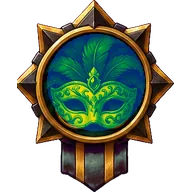
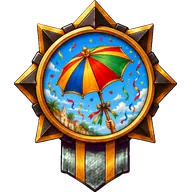
2.230.0: графика португальского курса
26 рисованных портретов, медальоны меню eye-pt и рисованные медали праздников.

Claude-Session: https://claude.ai/code/session_012FoTdB5qAwJN693kz9isgV

diff --git a/src/content/changelog.ts b/src/content/changelog.ts
@@ -7,6 +7,11 @@ export interface Release {
 // Новые версии сверху. Версия первой записи должна совпадать с package.json (проверяется тестом).
 export const CHANGELOG: Release[] = [
   {
+    version: '2.230.0',
+    date: '2026-10-22',
+    notes: ['Бразильский португальский (пока закрыт): своя графика. У жителей, Летописца, стражей и кузнеца Мастера Бене — рисованные портреты. В меню — свой медальон: зелёный глаз с жёлтым ромбом и синим кругом, после Эликсира — в золотом кольце. Медали Праздника июня и Карнавала теперь нарисованы: костёр под гирляндой флажков и зонтик фрево в конфетти.'],
+  },
+  {
     version: '2.229.0',
     date: '2026-10-21',
     notes: ['Бразильский португальский (пока закрыт): два праздника. Праздник июня (Festa Junina) в парке у Сеу Валдира: костёр, флажки, памонья и кентан, а в кадрили на «Olha a chuva!» все хором отвечают «É mentira!». И бразильский Карнавал на пляже у Бруну: костюмы, уличный блок и фрево с зонтиком. За миссию в неделю праздника — тайная медаль.'],

diff --git a/src/components/NavBar.tsx b/src/components/NavBar.tsx
@@ -10,6 +10,8 @@ import eyeEn from '../assets/nav/eye-en.webp';
 import eyeEnGold from '../assets/nav/eye-en-gold.webp';
 import eyeTr from '../assets/nav/eye-tr.webp';
 import eyeTrGold from '../assets/nav/eye-tr-gold.webp';
+import eyePt from '../assets/nav/eye-pt.webp';
+import eyePtGold from '../assets/nav/eye-pt-gold.webp';
 import { LANG, LANGS, RELEASED_LANGS, switchLang, type Lang } from '../lang';
 import { useSphinx } from '../store/sphinx';
 
@@ -31,6 +33,7 @@ const EYES: Partial<Record<Lang, { plain: string; gold: string }>> = {
   it: { plain: eyeIt, gold: eyeItGold },
   en: { plain: eyeEn, gold: eyeEnGold },
   tr: { plain: eyeTr, gold: eyeTrGold },
+  pt: { plain: eyePt, gold: eyePtGold },
 };
 /** Медальон языка; после Эликсира — золотой (задача 8.3). Курс без своего медальона берёт испанский. */
 const eyeFor = (lang: Lang, gold: boolean) => (EYES[lang] ?? EYES.es!)[gold ? 'gold' : 'plain'];

diff --git a/tests/e2e/story-pt.spec.ts b/tests/e2e/story-pt.spec.ts
@@ -354,3 +354,11 @@ for (const [id, day] of [
     await expect(page.getByTestId('festival-medal')).toContainText('получена');
   });
 }
+
+test('pt: свой медальон в меню и рисованные портреты жителей', async ({ page }) => {
+  await openCourse(page, 'pt');
+  await page.goto('./#/grammar');
+  await expect(page.getByTestId('nav-eye')).toHaveAttribute('src', /eye-pt(?!-gold)/);
+  await page.goto(`./#/scene/${encodeURIComponent('sc:cafe.1')}`);
+  await expect(page.getByTestId('npc-art').first()).toHaveAttribute('src', /tonho/);
+});

diff --git a/scripts/build-medal-art.py b/scripts/build-medal-art.py
@@ -1,6 +1,6 @@
 """Медали (промты — `docs/design/medals-prompt.md`): оправы ступеней `docs/design/medal-frames.png`, эмблемы линий
 `docs/design/medal-emblems.png` и тайные медали `docs/design/medal-secrets.png`, праздники английского курса —
-`docs/design/medal-secrets-en.png`, турецкого — `docs/design/medal-secrets-tr.png`.
+`docs/design/medal-secrets-en.png`, турецкого — `docs/design/medal-secrets-tr.png`, португальского — `docs/design/medal-secrets-pt.png`.
 
 Листы нарисованы на пурпурном фоне (#FF00FF) сеткой: каждая медаль в своей ячейке (искры у книги и молнии — отдельные
 пятна, поэтому делим по ячейкам, а не по связным областям). Скрипт снимает фон и сохраняет в `src/assets/medals/`
@@ -28,6 +28,7 @@ SECRETS = ['saved-streak', 'flawless', 'midnight', 'labyrinth', 'sphinx', 'keepe
            'festival-sanfermin', 'festival-tomatina', 'festival-ferragosto', 'festival-carnevale']
 SECRETS_EN = ['festival-bonfire', 'festival-carnival']
 SECRETS_TR = ['festival-hidrellez', 'festival-nisan']
+SECRETS_PT = ['festival-junina', 'festival-carnaval']
 
 
 def keyed(path: Path):
@@ -104,6 +105,9 @@ def main():
         square(piece, by_height=True)[0].save(OUT / f'secret-{sid}.webp', 'WEBP', quality=80, method=6)
     # Праздники турецкого курса (2.207.0).
     for sid, piece in zip(SECRETS_TR, cells(DESIGN / 'medal-secrets-tr.png', 2, 1)):
+        square(piece, by_height=True)[0].save(OUT / f'secret-{sid}.webp', 'WEBP', quality=80, method=6)
+    # Праздники португальского курса (2.230.0).
+    for sid, piece in zip(SECRETS_PT, cells(DESIGN / 'medal-secrets-pt.png', 2, 1)):
         square(piece, by_height=True)[0].save(OUT / f'secret-{sid}.webp', 'WEBP', quality=80, method=6)
     print(json.dumps(frames))
 

diff --git a/scripts/cut-portraits.py b/scripts/cut-portraits.py
@@ -1,8 +1,8 @@
 """
 Портреты персонажей из листов docs/design/portraits-<язык>.jpg: 20 жителей мест, Летописец, четыре стража
-и кузнец. Испанский лист — версия 2.62.0, итальянский — 2.82.0, английский — 2.186.0, турецкий — 2.207.0. Вырезается внутренняя часть каждой рамки,
+и кузнец. Испанский лист — версия 2.62.0, итальянский — 2.82.0, английский — 2.186.0, турецкий — 2.207.0, португальский — 2.230.0. Вырезается внутренняя часть каждой рамки,
 без золотой обводки и таблички с именем, в пропорциях игрового портрета 14:18, размер 168×216.
-Запуск: python3 scripts/cut-portraits.py [es|it|en|tr] (без аргумента — все языки, нужен Pillow).
+Запуск: python3 scripts/cut-portraits.py [es|it|en|tr|pt] (без аргумента — все языки, нужен Pillow).
 """
 from PIL import Image
 import os, sys
@@ -44,9 +44,17 @@ SHEETS={
     small_x=[(97,228),(252,367),(400,505),(533,643),(667,778),(808,930)],
     small_y=(1290,1432),
   ),
+  'pt':dict(
+    cols=[(122,283),(335,494),(540,700),(745,905)],
+    rows=[(68,238),(310,480),(555,725),(795,968),(1040,1205)],
+    names=[['tonho','graca','wellington','dita'],['lourdes','valdir','juliana','rosa'],['marcia','edson','ricardo','zecarlos'],
+           ['tati','raimundo','bruno','patricia'],['helena','fernanda','thiago','moreira']],
+    small_x=[(98,204),(245,349),(388,490),(533,637),(676,779),(818,927)],
+    small_y=(1290,1425),
+  ),
 }
 # Сдвиг центра по x для отдельных портретов, если лицо не по центру рамки.
-SHIFT={'es':{},'it':{},'en':{},'tr':{}}
+SHIFT={'es':{},'it':{},'en':{},'tr':{},'pt':{}}
 
 def cut(lang):
     s=SHEETS[lang]

diff --git a/scripts/build-nav-art.py b/scripts/build-nav-art.py
@@ -119,3 +119,5 @@ if __name__ == '__main__':
     eyes('nav-wow-eyes-en.png', ['eye-en', 'eye-en-gold'])
     # Турецкий (2.207.0) — тоже свой лист.
     eyes('nav-wow-eyes-tr.png', ['eye-tr', 'eye-tr-gold'])
+    # Португальский (2.230.0) — тоже свой лист.
+    eyes('nav-wow-eyes-pt.png', ['eye-pt', 'eye-pt-gold'])

diff --git a/CLAUDE.md b/CLAUDE.md
@@ -72,7 +72,7 @@ React 19, Vite 8 (rolldown), TypeScript, Tailwind v4, Zustand, Dexie (IndexedDB)
 - Звонница — минимальные пары (задача 10.2): `src/content/<язык>/pairs.json` (звонарь `ringer` того же вида, что кузнец, и противопоставления `contrasts`: `kind` `swap` с полем `swap`, `stress`, `double` или `caps` — английское ударение без знаков: ударный слог заглавными, REcord / reCORD, у обоих слов `say` с окружением «a record» / «to record»; турецкий циркумфлекс hala / hâlâ — вид `stress`; виды языка — `pairKinds` в профиле; пары `[слово, слово]`), загрузка `src/content/pairs.ts`, логика `src/domain/minimalPairs.ts` (`pairTasks`, `pairVerdict`, `retryTask`, `pairIssue`), валидатор `validatePairs` (пара различается ровно тем, что заявлено, не меньше `PAIRS_MIN` пар; общая проверка мастера без места — `checkMaster`). Экран `/bells` (`src/screens/Bells.tsx`), вход — карточка на экране грамматики под кузницей. Без звука (`listeningEnabled`) звонить нельзя. Ответы в журнале — режим `pairs`, id `mp:<противопоставление>.<n>` (`isPairId`, не слово); верные идут в `recordListening` (линия «Слушатель»). Сквозной тест — `bells.spec.ts`.
 - Ответ голосом (задача 10.3): `src/audio/speechInput.ts` (`voiceInputSupported`: есть `SpeechRecognition`, сеть и не APK; `listenAnswer` — до пяти вариантов на языке `recognitionLang`; запрет микрофона прячет кнопку до перезапуска), выбор варианта — `bestAlternative` в `src/domain/voiceAnswer.ts` по проверке задания, кнопка `VoiceAnswer` (`src/components/VoiceAnswer.tsx`, следит за `online`/`offline`). Стоит у ввода в миссии (`HeroTurn`, проверка `answerNode`) и в испытаниях (`TypeAnswer` и `PhraseType` с `exam`). Услышанное только встаёт в поле, проверку запускает игрок. Сквозной тест — `voice.spec.ts` (заглушка `SpeechRecognition`, `setOffline`).
 - Напоминания (задача 10.4): настройки `reminderOn`, `reminderTime`; расписание и текст — `src/domain/reminder.ts` (`reminderSlots`: `REMINDER_DAYS` дней вперёд, сегодня только если цель дня не выполнена; `reminderText` от Летописца), на устройстве — `src/lib/reminder.ts` (`reminderSupport`: `native` | `periodic` | `none`; `enableReminder`, `reminderStatus`, `syncReminder`, `watchReminder` из `bootstrap` пересчитывает расписание при выполненной цели и смене настроек). APK — плагин `@capacitor/local-notifications` (номера уведомлений по языку, значок `ic_stat_eslacity` из `scripts/build-icons.py`, `capacitor.config.ts`). Сайт — `public/reminder-sw.js`, подключён к service worker через workbox `importScripts`: по `periodicsync` читает расписание из кэша `eslacity-reminder` (запись на язык) и показывает наступившее, опоздавшее больше чем на 12 часов пропускает. Раздел «Напоминание» в настройках — `ReminderCard`. Тесты: `src/lib/reminderSw.test.ts` (service worker в песочнице), сквозной `reminder.spec.ts`.
-- Праздники (задача 10.5): `src/domain/festival.ts` (`FESTIVALS` собирается из `festivals` профилей языков: хозяин — здание города, цвета флажков, знак, тайная медаль, неделя `week(year)`; `festivalWeek`: Сан-Фермин 6–14 июля, Томатина вокруг последней среды августа, Феррагосто 12–18 августа, Карнавал — шесть дней до Жирного вторника по Пасхе; английские — Ночь костров 2–8 ноября и карнавал в Ноттинг-Хилле с четверга до среды вокруг последнего понедельника августа; турецкие — Хыдырэллез 2–8 мая и Детский праздник 20–26 апреля; португальские — Праздник июня (Festa Junina) 20–26 июня и бразильский Карнавал, как итальянский, по Пасхе; `activeFestival`, `festivalsDone` — миссия, пройденная в неделю праздника; `placePath`). Контент — `src/content/<язык>/festivals/<id>.json` (`intro`, `about`, `names` — имена собственные для проверки словаря, слова `fest-<id>.<slug>` уровня 1, фразы `ph:fest-<id>.<slug>`, миссия `ms:fest-<id>.2` сложности главы II, `FESTIVAL_CHAPTER`). Праздник — «место» `fest-<id>`: его слова, фразы и миссию находят обычные загрузчики (`content/index.ts`, `phrases.ts`, `missions.ts`), хозяин — `npcFor`. Экран `/festival/:id` (`src/screens/Festival.tsx`), приглашение на главной, флажки и знак на карте, календарь в профиле — `src/components/FestivalBits.tsx`. Тайные медали праздников — в `SECRETS` с полем `lang` (видны только в своём курсе), счётчик `festivals` в `MedalCounters`; картинки английских и турецких режет `scripts/build-medal-art.py` из своих листов `docs/design/medal-secrets-en.png` и `medal-secrets-tr.png`, португальские пока собирает из готовых медалей `scripts/build-pt-festival-medals.py`. Валидатор `validateFestivals` (общие проверки фраз и миссий с `places`, свой словарь покрытия с праздничными словами). Сквозной тест — `festival.spec.ts` (`page.clock`).
+- Праздники (задача 10.5): `src/domain/festival.ts` (`FESTIVALS` собирается из `festivals` профилей языков: хозяин — здание города, цвета флажков, знак, тайная медаль, неделя `week(year)`; `festivalWeek`: Сан-Фермин 6–14 июля, Томатина вокруг последней среды августа, Феррагосто 12–18 августа, Карнавал — шесть дней до Жирного вторника по Пасхе; английские — Ночь костров 2–8 ноября и карнавал в Ноттинг-Хилле с четверга до среды вокруг последнего понедельника августа; турецкие — Хыдырэллез 2–8 мая и Детский праздник 20–26 апреля; португальские — Праздник июня (Festa Junina) 20–26 июня и бразильский Карнавал, как итальянский, по Пасхе; `activeFestival`, `festivalsDone` — миссия, пройденная в неделю праздника; `placePath`). Контент — `src/content/<язык>/festivals/<id>.json` (`intro`, `about`, `names` — имена собственные для проверки словаря, слова `fest-<id>.<slug>` уровня 1, фразы `ph:fest-<id>.<slug>`, миссия `ms:fest-<id>.2` сложности главы II, `FESTIVAL_CHAPTER`). Праздник — «место» `fest-<id>`: его слова, фразы и миссию находят обычные загрузчики (`content/index.ts`, `phrases.ts`, `missions.ts`), хозяин — `npcFor`. Экран `/festival/:id` (`src/screens/Festival.tsx`), приглашение на главной, флажки и знак на карте, календарь в профиле — `src/components/FestivalBits.tsx`. Тайные медали праздников — в `SECRETS` с полем `lang` (видны только в своём курсе), счётчик `festivals` в `MedalCounters`; картинки английских, турецких и португальских режет `scripts/build-medal-art.py` из своих листов `docs/design/medal-secrets-en.png`, `medal-secrets-tr.png` и `medal-secrets-pt.png`. Валидатор `validateFestivals` (общие проверки фраз и миссий с `places`, свой словарь покрытия с праздничными словами). Сквозной тест — `festival.spec.ts` (`page.clock`).
 - Отчёты об ошибках (задача 11.1): таблица `reports` (`ReportRecord`, причины `REPORT_REASONS`, текст для копирования `formatReports` в `src/domain/report.ts`; запись и чтение — `src/db/reports.ts`). Кнопка `ReportButton` (окно в портале на `document.body`: лист итога ответа сдвигается `transform`-ом) стоит в `FeedbackSheet`, если у итога есть `itemId` (его ставят `LessonPlayer`, `PhraseRun`, `RuleReview`, `GrammarLesson`, `TrialPlayer`, кузница, Звонница), в разговоре (`<сцена>#<номер реплики>`) и в миссии (`<миссия>#<узел>`). Новое задание с итогом — сразу с `itemId`. Отчёты в резервной копии (`OPTIONAL`), раздел в настройках — `ReportsCard`. Сквозной тест — `report.spec.ts`.
 - Правила перевода (задача 15.3): `docs/TRANSLATION.md`. `translationIssues` в `src/domain/translation.ts` (из `scripts/validate-content.ts`, по всем файлам контента) сверяет «ты/вы» перевода с оригиналом у каждой пары `es`/`ru` и `fem` (`sourceAddress`, `ruAddress`; решает оригинал, а не `register` жителя) и типографику русских строк (`typographyIssues`: «ёлочки», `NO_YO`). Новый перевод пишется по этим правилам.
 - Вычитка носителем (задача 11.2): `scripts/export-review.ts` выгружает строки на изучаемом языке в `review/<язык>/<вид>.csv` (в git не попадает). Строка выгрузки — `extractRows` в `scripts/review-lib.ts`: поля по `TARGET_KEYS` (у мудрости Сфинкса ещё `title`), русские и служебные ветки — `SKIP_KEYS`, строка с кириллицей без латиницы не выгружается; адрес — `file` и `path` (`getAt`/`setAt`), тест проверяет, что адрес каждой строки ведёт к её тексту. Новые поля контента на изучаемом языке добавлять в `TARGET_KEYS`. Загрузка правок (задача 11.3) — `scripts/import-review.ts`: `fixesFromCsv`, `applyFixes` (правка — только если текст в контенте тот же, что видел носитель), замена точечная по месту строки в тексте файла (`locateStrings`), файлы целиком не переписываются; потом отчёт `review/<язык>/applied-*.md`, валидатор и тесты контента. Инструкция носителю — `docs/REVIEW.md`.
@@ -81,7 +81,7 @@ React 19, Vite 8 (rolldown), TypeScript, Tailwind v4, Zustand, Dexie (IndexedDB)
 - Загрузка и переходы (задача 14.6): пока экран ждёт контент, он возвращает `<Loading />` из `src/components/ui.tsx` (внутри экрана — `inline`), а не `null`; появляется через 250 мс. `Screen` проявляется классом `screen-in` (только прозрачность: `transform` сломал бы `position: fixed` у листа итога), при `prefers-reduced-motion` без анимации. Главная предзагружает место «Продолжить» (`stepPlace` в `next.ts`) и следующий урок грамматики. Сквозной тест — `loading.spec.ts`.
 - Настройки по разделам (задача 14.4): `/settings` — оглавление, `/settings/<раздел>` — экран раздела (`SettingsScreen` в `src/screens/Settings.tsx`). Разделы и порядок — `SETTINGS_SECTIONS` в `src/domain/settingsSections.ts` (`hero`, `learning`, `sound`, `reminder`, `language`, `data`, `app`, `reports`), подпись выбранного под названием — `settingsHint`. Новая настройка встаёт в подходящий раздел (`SECTION_BODY`); сквозные тесты идут прямо в раздел (`goto('./#/settings/<раздел>')`), оглавление проверяет `settings.spec.ts`.
 - Приложение для Android (APK, с 2.113.0): Capacitor (`capacitor.config.ts`, проект `android/`, создан `npx cap add android`), внутри та же сборка `dist/`. Собирает его GitHub Actions задачей `android` параллельно с тестами (`npx cap sync android`, `./gradlew assembleRelease`), задача `package` кладёт его на сайт как `eslacity.apk`; ссылка — раздел «Приложение для Android» в настройках. Локально Android SDK нет (dl.google.com закрыт), проверка сборки — по прогону в CI. `src/lib/native.ts`: `NATIVE`, `initNative` (без `viewport-fit=cover`, кнопка «Назад»), `saveJsonFile` (резервная копия в «Документы/Eslacity», WebView не скачивает файлы). В приложении нет service worker, новая версия ищется по `version.json` сайта и сравнивается по номеру версии (`remoteIsNewer`: сайт и APK собираются разными задачами CI, время сборки у них разное), «Обновить» — свой плагин `ApkUpdatePlugin.java` (`installApk` в `native.ts`): скачивает APK в кэш и открывает установщик, без разрешения на установку открывает настройки. Озвучка в приложении — плагин `@capacitor-community/text-to-speech` (в WebView нет Web Speech), ветка `NATIVE` в `tts.ts`. Версия APK из `package.json` (versionCode = мажор·10000 + минор·100 + патч). Подпись (с 2.123.0, задача 16.1): gradle собирает APK без подписи, подписывает шаг «Подпись APK» в CI ключами из секретов GitHub (`ANDROID_KEYSTORE_B64`, `ANDROID_KEYSTORE_PASSWORD`, `ANDROID_OLD_KEYSTORE_B64`, `ANDROID_OLD_KEYSTORE_PASSWORD`): новый ключ `eslacity2026` с цепочкой от старого `eslacity` (APK Signature Scheme v3, `--rotation-min-sdk-version 28`, поэтому minSdk 28), потом `apksigner verify --print-certs` и `apksigner lineage` сверяют отпечатки. Ключи в репозиторий не класть (`android/.gitignore`), цепочку не менять, иначе обновление не встанет поверх; инструкция — `docs/ANDROID.md`. Иконки и заставка Android — `scripts/build-icons.py`.
-- `src/assets/` — картинки города и меню. Нижнее меню (задача 14.2, рисованное с 2.157.0): `NavBar` — ряд из четырёх каменных ячеек `src/assets/nav/nav-strip.webp` (фон блока `nav-art`) и медальон с глазом в гнезде над рядом (`eye-<язык>.webp`, после Эликсира `eye-<язык>-gold.webp`, `eyeOf`: курс без своего медальона берёт испанский; он же крупно в `/vault`), подписи ячеек рисует код (`nav-label`, Tiny5 12 px, не растёт с размером текста). Медальон — кнопка `nav-eye-button`: над рядом открывается меню языка `lang-menu` (открытые курсы `RELEASED_LANGS` и текущий, у каждого свой медальон, `eyeFor`; выбор — `switchLang`, как в настройках; закрывается нажатием мимо, Escape и переходом на другой экран), сквозной тест — в `app.spec.ts`. Картинки и геометрию `nav-strip.json` (ячейки, внутренние панели — по ним центрируются подписи, полоса подписи, гнездо) строит `scripts/build-nav-art.py` из `docs/design/nav-wow-strip.png`, `nav-wow-eyes.png`, `nav-wow-eyes-en.png` и `nav-wow-eyes-tr.png` (у английского и турецкого свои листы из двух медальонов) (промт — `docs/design/nav-wow-prompt.md`). Высота ряда — `--nav-h` в `src/index.css` (во всю ширину экрана в пропорции картинки, не выше 14% высоты), место под меню на экранах с вкладками — `--nav-space`.
+- `src/assets/` — картинки города и меню. Нижнее меню (задача 14.2, рисованное с 2.157.0): `NavBar` — ряд из четырёх каменных ячеек `src/assets/nav/nav-strip.webp` (фон блока `nav-art`) и медальон с глазом в гнезде над рядом (`eye-<язык>.webp`, после Эликсира `eye-<язык>-gold.webp`, `eyeOf`: курс без своего медальона берёт испанский; он же крупно в `/vault`), подписи ячеек рисует код (`nav-label`, Tiny5 12 px, не растёт с размером текста). Медальон — кнопка `nav-eye-button`: над рядом открывается меню языка `lang-menu` (открытые курсы `RELEASED_LANGS` и текущий, у каждого свой медальон, `eyeFor`; выбор — `switchLang`, как в настройках; закрывается нажатием мимо, Escape и переходом на другой экран), сквозной тест — в `app.spec.ts`. Картинки и геометрию `nav-strip.json` (ячейки, внутренние панели — по ним центрируются подписи, полоса подписи, гнездо) строит `scripts/build-nav-art.py` из `docs/design/nav-wow-strip.png`, `nav-wow-eyes.png`, `nav-wow-eyes-en.png`, `nav-wow-eyes-tr.png` и `nav-wow-eyes-pt.png` (у английского, турецкого и португальского свои листы из двух медальонов) (промт — `docs/design/nav-wow-prompt.md`). Высота ряда — `--nav-h` в `src/index.css` (во всю ширину экрана в пропорции картинки, не выше 14% высоты), место под меню на экранах с вкладками — `--nav-space`.
 - Иконки приложения и значок вкладки (`public/icons/*.png`, `public/favicon-32.png`, `favicon-16.png`) режет `scripts/build-icons.py` из `docs/design/app-icon.jpg` (медальон с глазом); иконка под маску — картинка целиком, медальон в безопасной зоне.
 
 ## Правила

diff --git a/docs/ROADMAP.md b/docs/ROADMAP.md
@@ -1656,6 +1656,7 @@
 | 2026-10-12 | 17.1 профиль английского | 2.169.0 | `src/langs/en` (закрыт, `released: false`): артикли a/an/the без рода, a/an по звуку в валидаторе (`textIssues`), сокращения как полные формы, британское и американское написание (`canon`), формы -s/-ed/-ing и неправильные глаголы (`past`, `pp`, `dbl`); частотный список и леммы en (7000 лемм), `skip-en`, `risky-en`; уроки открытия времён кузницы — id по плану 17.4 |
 | 2026-10-12 | 17.2 город и жители английского | 2.170.0 | 20 жителей, Летописец, 5 стражей, кузнец Гарет (76 глаголов, глаголы состояния без Continuous — `stative`), звонарь Агнес (ship/sheep, th/s, v/w, cat/cut, ударение REcord/reCORD — новый вид `caps` с `say`); full/fool заменено на cat/cut: пары не строятся заменой букв; валидатор проверяет закрытый курс без слов по готовым файлам; промт `portraits-en-prompt.md` |
 | 2026-10-12 | 17.3 слова глав I–II английского | 2.171.0 | 960 слов мест (20 мест × 4 уровня × 12) и свитки I (87) и II (181), всего 1228; британские слова, редкие бытовые — `topical`; покрытие первой тысячи словами 68%, до 80% к концу главы II — грамматикой в 17.4; валидатор проверяет слова закрытого курса, отчёт `docs/vocab/en.md` без уроков; шум субтитров и американское написание в `skip-en.txt` |
+| 2026-10-22 | 19.9 графика португальского | 2.230.0 | 26 рисованных портретов, медальоны меню `eye-pt`, рисованные медали Праздника июня и Карнавала |
 | 2026-10-21 | 19.9 праздники португальского | 2.229.0 | Festa Junina (парк, 20–26 июня) и бразильский Карнавал (пляж, по Пасхе) с миссиями и тайными медалями из готовых картинок |
 | 2026-10-21 | 19.9 книги, слухи и дневник португальского | 2.228.0 | 20 книг Летописца со словариками глав, 20 слухов, 31 запись дневника |
 | 2026-10-21 | 19.9 пролог и нить глав португальского | 2.227.0 | пролог у ворот (olá, por favor, tchau) и 15 сцен Летописца с записками конца дня |

diff --git a/docs/design/medals-prompt.md b/docs/design/medals-prompt.md
@@ -197,7 +197,7 @@ the top-left. Each medal must stay readable at 64x64 pixels on a phone.
 
 ## 3в. Праздничные медали португальского курса (с 2.229.0)
 
-Пока обе медали собирает из готовых временный `scripts/build-pt-festival-medals.py`. Лист генерировать с приложенным образцом `docs/design/medal-secrets-en.png`, чтобы оправа и масштаб совпали.
+С 2.230.0 обе медали рисованные, лист — `docs/design/medal-secrets-pt.png`, режет его `scripts/build-medal-art.py` (`SECRETS_PT`); до этого их собирал из готовых временный скрипт. Лист генерировать с приложенным образцом `docs/design/medal-secrets-en.png`, чтобы оправа и масштаб совпали.
 
 | Медаль | Праздник | Сцена в центре |
 |---|---|---|
@@ -224,7 +224,7 @@ Do not use magenta or bright pink anywhere in the medals. Consistent light from 
 readable at 64x64 pixels on a phone.
 ```
 
-После генерации: лист — в `docs/design/medal-secrets-pt.png`, в `scripts/build-medal-art.py` — `SECRETS_PT = ['festival-junina', 'festival-carnaval']` и нарезка, как у турецкого; временный `scripts/build-pt-festival-medals.py` удалить.
+Лист лежит в `docs/design/medal-secrets-pt.png`, в `scripts/build-medal-art.py` — `SECRETS_PT = ['festival-junina', 'festival-carnaval']` и нарезка, как у турецкого.
 
 ## После генерации
 

diff --git a/docs/design/nav-wow-prompt.md b/docs/design/nav-wow-prompt.md
@@ -132,7 +132,7 @@ No text, no letters, no numbers, no shadow on the background. Do not use magenta
 
 ## Португальский курс: медальоны с глазом
 
-Лист из двух медальонов, как у английского и турецкого, генерировать с приложенным образцом `docs/design/nav-wow-eyes.png`. Пока своего медальона нет, португальский курс берёт испанский (`eyeOf`).
+С 2.230.0 медальоны готовы: `eye-pt.webp` и `eye-pt-gold.webp`, лист `docs/design/nav-wow-eyes-pt.png`. Лист из двух медальонов, как у английского и турецкого, генерировать с приложенным образцом `docs/design/nav-wow-eyes.png`.
 
 ```
 Sheet of 2 round UI medallions for a mobile fantasy RPG, in the hand-painted stylized art style of World of

diff --git a/docs/design/portraits-pt-prompt.md b/docs/design/portraits-pt-prompt.md
@@ -43,3 +43,5 @@ Heroes of the road, the final row of six, left to right:
 25. «Хранительница леса» — guardian of the whispering rainforest, brown skin, long dark hair woven with leaves and flowers, dark green robes. Eyes closed, listening to the trees, glowing fireflies. Background: ancient misty tropical forest with vines.
 26. «Мастер Бене» — the rune blacksmith who forges words, dark skin, short black hair, short beard, brown shirt and leather apron. Strong and cheerful, hammering glowing runes on an anvil. Background: forge with fire.
 ```
+
+С 2.230.0 лист готов: `docs/design/portraits-pt.jpg`, координаты рамок — `SHEETS['pt']` в `scripts/cut-portraits.py`, 26 портретов в `src/assets/portraits/pt/`.
